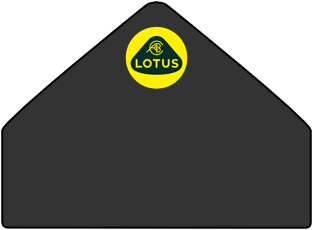
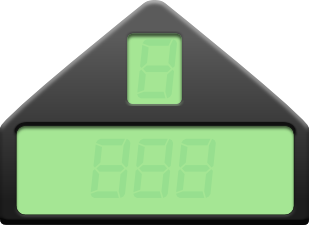
Major Updates
Gear Shifter, beveling, etc.

diff --git a/AgeSolo.qml b/AgeSolo.qml
@@ -141,6 +141,30 @@ Item {
         id: digital7monoitalic
         source: "./fonts/digital7monoitalic.ttf"
     }
+    //Utilities
+
+    function getGear(){
+        switch(rpmtest.geardata){
+            case 0:
+                return 'n'
+            case 1:
+                return 1
+            case 2:
+                return 2
+            case 3:
+                return 3
+            case 4:
+                return 4
+            case 5:
+                return 5
+            case 6:
+                return 6
+            case 10:
+                return 'r'
+            default:
+                return '-'
+        }
+    }
 
     /* ########################################################################## */
     /* Main Layout items */
@@ -169,28 +193,48 @@ Item {
         x: 544; y: 266.7
         z: 1
         Image {
-            source: './img/RightDashOutside.png'
+            source: if(!root.sidelight) './img/RightDashOutside.png'; else './img/RightDashOutsideDark.png'
             width: 250
             height: 208
         }
     }
-    Item{
-        id: side_lcd
-        x: 560.7; y: 277
-        z: 2
-        Image {
-            source: if(!root.sidelight) './img/LightFurtherInfo.png'; else './img/DarkFurtherInfo.png'
-            width: 222.1
-            height: 182
-        }
-    }
 
+    Text{
+            id: gear_display_char
+            z:10
+            font.bold: false
+            font.pixelSize: 90
+            font.family: digital7monoitalic.name
+            font.italic: true
+            x: 382; y: 270
+            height: 78
+            text: getGear()
+            color: if (!root.sidelight)
+                   root.daylight_lcd_color
+               else
+                   root.night_light_color
+            renderType: Text.NativeRendering
+            opacity: 1
+        }
+
+    DropShadow{
+            z:7
+            anchors.fill: gear_display_char
+            source: gear_display_char
+            verticalOffset: 3
+            radius: 3.0
+            samples: 9
+            color: '#44000000'
+        }
     Item {
         id: centerpiece
         x: 245; y: 245.5
         z: 3
+
+        
+
         Image {
-            source: './img/CenterPiece.png'
+            source: if(!root.sidelight) './img/CenterPiece.png'; else './img/CenterPieceDark.png'
             width: 313
             height: 230
         }
@@ -289,21 +333,13 @@ Item {
         }
     }
 
-    Item{
-        id: mph_display
-        x: 261.6; y: 371
-        z: 4
-        Image { 
-            source: if(!root.sidelight) './img/LightMPHDisplay.png'; else './img/DarkMPHDisplay.png'
-        }
-    }
-
     Text {
         id: speed_display_val
         font.pixelSize: 90
         horizontalAlignment: Text.AlignRight
         font.family: digital7monoitalic.name
-        x: 328; y: 370
+        font.italic: true
+        x: 331; y: 372
         width: 134
         height: 75.7
         z: 8
@@ -312,20 +348,20 @@ Item {
                else
                    root.night_light_color
         text: if (root.speedunits === 0) {
-                  root.speed.toFixed(0) //"0"   // Alec added speed
+                  root.speed.toFixed(0) 
               } else {
                   root.mph.toFixed(0)
               }
     }
-    DropShadow{
-        z:7
-        anchors.fill: speed_display_val
-        source:speed_display_val
-        verticalOffset: 3
-        radius: 3.0
-        samples: 9
-        color: '#44000000'
-    }
+        DropShadow{
+            z:7
+            anchors.fill: speed_display_val
+            source:speed_display_val
+            verticalOffset: 3
+            radius: 3.0
+            samples: 9
+            color: '#44000000'
+        }
     Image{
         id: mph_label
         z: 7
@@ -378,7 +414,7 @@ Item {
     Item {
         id: watertemp_needle
         z: 4
-        x: 8; y: 378
+        x: 12; y: 375
         Image{
             id: watertemp_needle_image
             height: 16
@@ -440,12 +476,12 @@ Item {
     Item{
         id: tachometer_needle
         z: 4
-        x: 194; y: 236
+        x: 196; y: 236
         Image{
             id: tachometer_needle_image
             height: 14
             width: 239
-            source: './img/TachNeedle.png'
+            source: if(root.rpm <=5000) './img/TachNeedle.png'; else './img/TachNeedleFlipped.png'
             antialiasing: true 
         }
         transform:[
@@ -477,7 +513,7 @@ Item {
     Item{
         id: shift_lights_dim
         z: 3
-        x: 326; y: 170
+        x: 326; y: 176
         width: 140
         height: 19
         Image{
@@ -503,7 +539,7 @@ Item {
         id: shift_lights
         z: 3
         x: 326
-        y: 170
+        y: 176
         width: 140
         height: 19
         Image{
@@ -534,7 +570,7 @@ Item {
     Item{
         id: shift_lights_blinking
         z: 3
-        x: 326; y: 170
+        x: 326; y: 176
         width: 140
         height: 19
         Image{
@@ -578,11 +614,12 @@ Item {
    
     Text {
         id: oiltemp_display_val
-        font.pixelSize: 32
+        font.pixelSize: 36
         font.family: digital7monoitalic.name
+        font.italic: true
         width: 110
         height: 36
-        x: 626.3; y: 334
+        x: 628; y: 335
         z: 2
         color: if (!root.sidelight)
                    root.daylight_lcd_color
@@ -606,9 +643,10 @@ Item {
         font.pixelSize: 36
         font.family: digital7monoitalic.name
         horizontalAlignment: Text.AlignRight
+        font.italic: true
         width: 110
         height: 36
-        x: 626.3; y: 285
+        x: 628; y: 285
         z: 2
         color: if (!root.sidelight)
                    root.daylight_lcd_color
@@ -630,7 +668,7 @@ Item {
     }
     Image{
         id: oilpressure_label
-        x: 738; y: 290
+        x: 738; y: 292
         z:3
         width: 45
         height: 32
@@ -638,15 +676,45 @@ Item {
     }
     Image{
         id: oiltemp_label
-        x: 738; y: 339
+        x: 738; y: 341
         z: 3
         width: 42
         height: 34
         source: if(!root.sidelight) './img/LightOilTemp.png';else './img/DarkOilTemp.png'
     }
+
+    Text {
+        id: battery_display_val
+        text: root.batteryvoltage.toFixed(1)
+        font.pixelSize: 36
+        font.family: digital7monoitalic.name
+        horizontalAlignment: Text.AlignRight
+        font.italic: true
+        width: 110
+        height: 36
+        x: 628; y: 379
+        z: 2
+        color: if (!root.sidelight)
+                   root.daylight_lcd_color
+               else
+                   root.night_light_color
+        visible: if (root.oilpressurehigh === 0)
+                     false
+                 else
+                     true
+    }
+    DropShadow{
+        z:2
+        anchors.fill: battery_display_val
+        source: battery_display_val
+        verticalOffset: 3
+        radius: 3.0
+        samples: 9
+        color: '#44000000'
+    }
     Image{
         id: volts_label
-        x: 738; y: 395
+        x: 738; y: 399
         z:3
         width: 39
         height: 17
@@ -675,6 +743,15 @@ Item {
             Image{
                 source: if(!root.sidelight) "./img/lit_fuelbars.png"; else "./img/dark_fuelbars.png"
             }
+        }
+        DropShadow{
+            z:2
+            anchors.fill: actual_bars
+            source: actual_bars
+            verticalOffset: 3
+            radius: 3.0
+            samples: 9
+            color: '#44000000'
         }
         Image{
             z: 3
@@ -710,34 +787,7 @@ Item {
                 } 
             }
     }
-    Text {
-        id: battery_display_val
-        text: root.batteryvoltage.toFixed(1)
-        font.pixelSize: 36
-        font.family: digital7monoitalic.name
-        horizontalAlignment: Text.AlignRight
-        width: 110
-        height: 36
-        x: 626.3; y: 377
-        z: 2
-        color: if (!root.sidelight)
-                   root.daylight_lcd_color
-               else
-                   root.night_light_color
-        visible: if (root.oilpressurehigh === 0)
-                     false
-                 else
-                     true
-    }
-    DropShadow{
-        z:2
-        anchors.fill: battery_display_val
-        source: battery_display_val
-        verticalOffset: 3
-        radius: 3.0
-        samples: 9
-        color: '#44000000'
-    }
+    
     Image {
         id: left_blinker
         x: 341; y: 295
